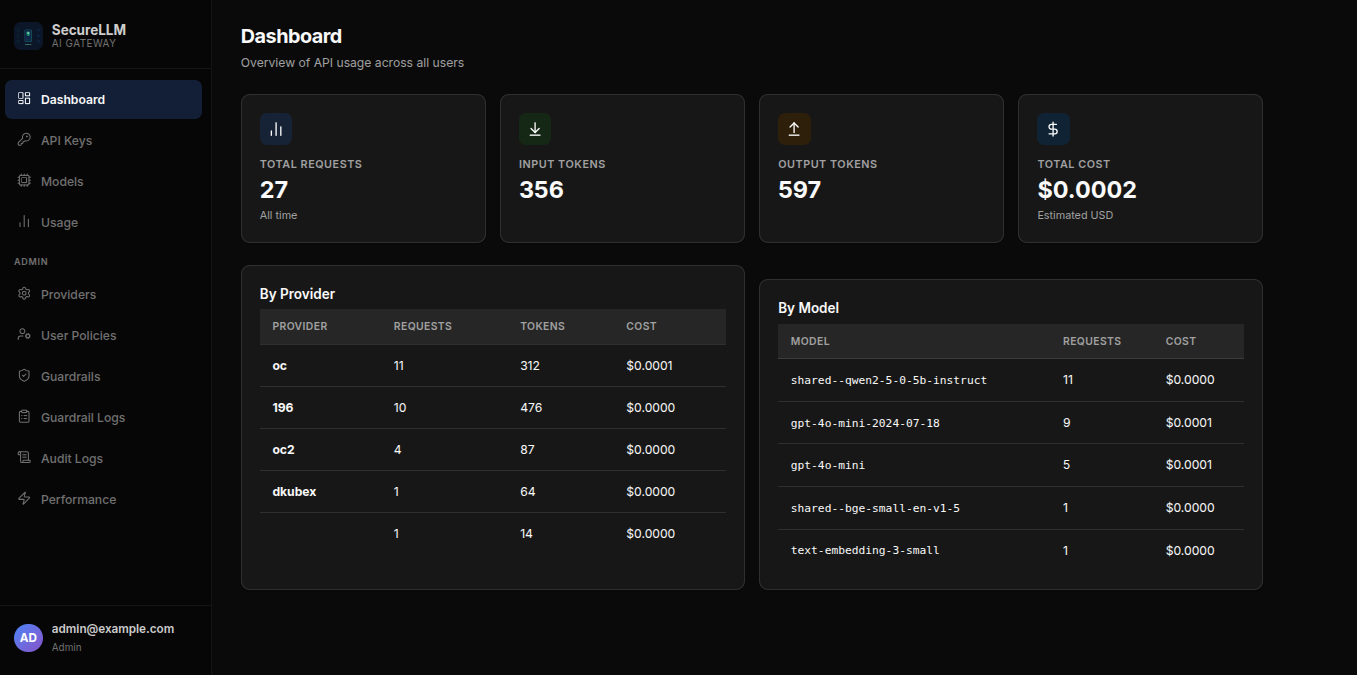
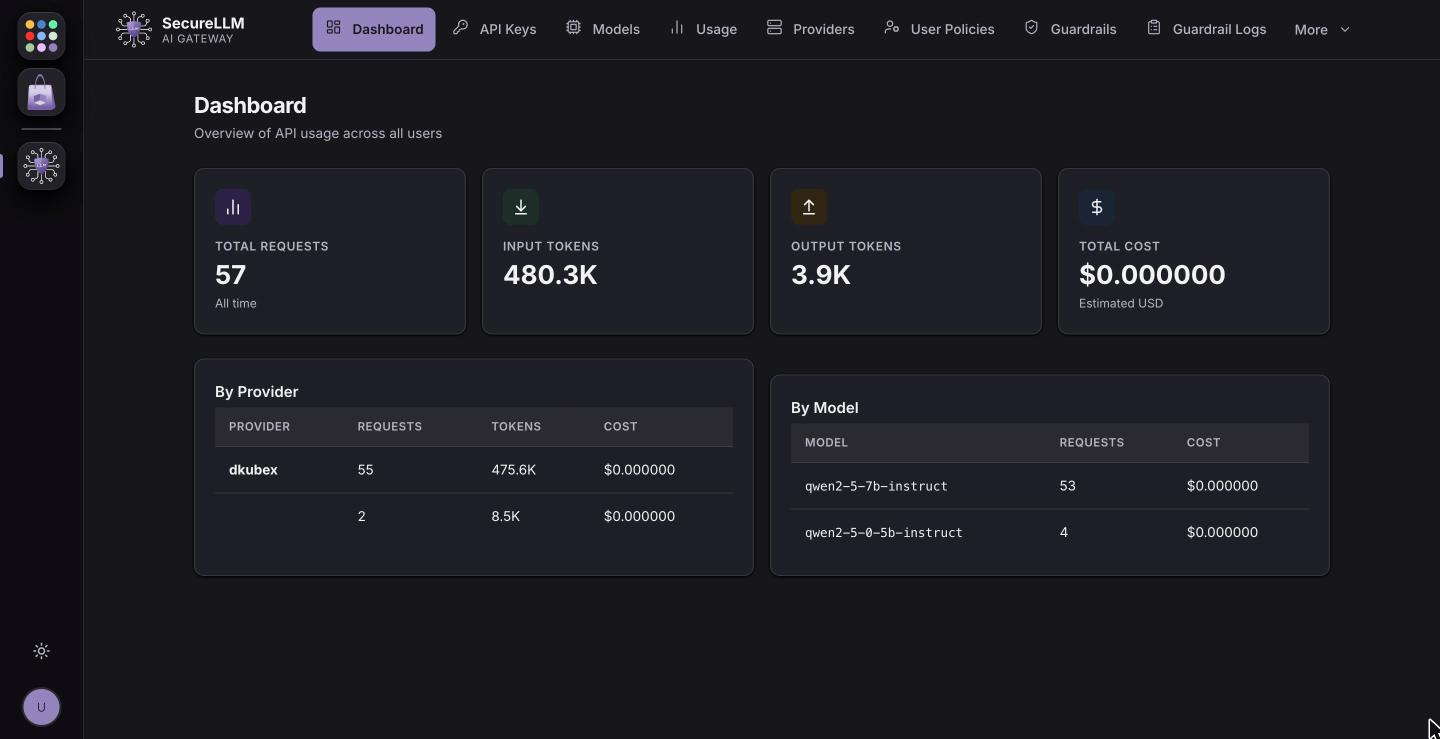
docs: update securellm docs (dkubeio/securellm@d0d359a)

diff --git a/applications/securellm/admin-features.md b/applications/securellm/admin-features.md
@@ -4,19 +4,35 @@
 Admin pages are only visible if your account has been granted admin access. Contact your SecureLLM administrator if you believe you should have admin rights.
 :::
 
-Admins see all four user pages (with organization-wide data) plus six additional pages: **Providers**, **Users**, **Guardrails**, **Guardrail Logs**, **Audit Logs**, and **Performance**.
+Admins see all four user pages (with organization-wide data) plus seven additional pages: **Providers**, **User Policies**, **Guardrails**, and **Guardrail Logs** in the top menu, and **Audit Logs**, **Performance**, and **Settings** under **More**.
 
 ## Dashboard (admin view)
 
-Identical to the user dashboard, but all numbers reflect the **entire organization** — every user's requests, tokens, and costs. Use this to monitor overall AI spend and identify which teams or models drive the most usage.
+Identical to the user dashboard, but all numbers reflect the **entire organization** — every user's requests, tokens, and costs ("Overview of API usage across all users"). Use this to monitor overall AI spend and identify which teams or models drive the most usage.
+
+## API Keys (admin view)
+
+The **API Keys** page ("Manage all API keys") lists every key in the organization.
+
+- The **Create New Key** card has, besides **Key Name** and **+ Create Key**, the **Allowed Providers** and **Allowed Models** pickers.
+- The **All Keys** table shows each key's **Prefix**, **Name**, **Owner**, **Uses**, **Last Used**, **Created**, **Providers**, and **Allowed Models**, with **Edit** and **Revoke** buttons.
+
+## Usage Logs (admin view)
+
+The **Usage** menu item opens the **Usage Logs** page. For admins it shows the organization-wide request history ("Organisation-wide request history") with the number of records.
+
+- Cards at the top show **Total Requests**, **Success Rate**, **Avg Latency**, and **Guardrails Fired** (blocked · modified · flagged).
+- Filter by **Provider**, **App**, **Status**, **Guardrails**, **User**, or **Date**, or type a model, key, or user in **Search**.
 
 ## Providers
 
-Providers are the AI services SecureLLM connects to (e.g., OpenAI, Anthropic, or your organization's own AI deployment).
+Providers are the AI services SecureLLM connects to (e.g., OpenAI, Anthropic, or your organization's own AI deployment). The **Providers** page ("Configure LLM provider connections. API keys are stored securely and never exposed after saving.") lists them in the **Configured Providers** table, with each provider's **Name**, **Type**, **Base URL**, **API Key**, **Allowed Models**, **Health** (Healthy or Unhealthy), an **Enabled** toggle, and **Edit** and **Delete** actions.
+
+![SecureLLM Providers page: the Configured Providers table with Name, Type, Base URL, API Key, Allowed Models, Health, Enabled and Actions columns, and the + Add Provider button](./media/securellm-providers.png)
 
 **Adding a provider:**
 
-1. Click **Providers** → **Add Provider**.
+1. Click **Providers** → **+ Add Provider**.
 2. Select the provider type from the dropdown.
 3. Enter the provider's **API Key** and, if needed, a custom **Base URL**.
 4. Optionally list **Allowed Models** (leave blank to allow all models from this provider).
@@ -24,15 +40,15 @@ Providers are the AI services SecureLLM connects to (e.g., OpenAI, Anthropic, or
 
 **Enabling / disabling a provider:**
 
-Use the toggle switch on each provider card. Disabling pauses routing to that provider without losing its configuration — useful for maintenance or cost control. Only delete a provider when you are certain it will never be used again.
+Use the **Enabled** toggle in the provider's row. Disabling pauses routing to that provider without losing its configuration — useful for maintenance or cost control. Only delete a provider when you are certain it will never be used again.
 
-## Users
+## User Policies
 
-The Users page lets you set access policies for individual users — controlling which providers and models each person can use.
+The **User Policies** menu item opens the **User Restrictions** page ("Manage allowed providers and models per user."), where you set access policies for individual users — controlling which providers and models each person can use.
 
 **Adding a restriction:**
 
-1. Click **Users** → **Add Restriction**.
+1. Click **User Policies** → **+ Add Restriction**.
 2. Enter the user's email or username.
 3. Specify **Allowed Providers** and/or **Allowed Models** (comma-separated).
 4. Click **Save**.
@@ -45,7 +61,11 @@ To remove all restrictions and the spend limit from a user (giving them full acc
 
 ## Guardrails
 
-Guardrails are automatic safety filters that inspect AI requests and responses before they reach the AI or your users.
+Guardrails are automatic safety filters that inspect AI requests and responses before they reach the AI or your users. The **Guardrails** page ("Configure security guardrails that inspect requests and responses.") has two tabs, **Guardrails** and **Test Guardrails**, and a **+ Add New Guardrail** button.
+
+The **Guardrails** tab lists each guardrail's **ID**, **Name**, **Provider** (the guardrail type), **Mode** (`pre_call` checks the request, `post_call` the response), **Default On**, an **Enabled** toggle, **Updated**, and **Edit** and **Delete** actions. Three guardrails are listed out of the box: `prompt-injection` (Prompt Injection, `pre_call`), `content-filter` (Content Filter, `pre_call`), and `output-content-filter` (Content Filter, `post_call`).
+
+![SecureLLM Guardrails page: the Guardrails tab listing the prompt-injection, content-filter and output-content-filter guardrails with their Mode, Default On and Enabled columns](./media/securellm-guardrails.png)
 
 **Three guardrail types:**
 
@@ -55,7 +75,7 @@ Guardrails are automatic safety filters that inspect AI requests and responses b
 | **Prompt Injection** | Detects attempts to manipulate the AI into ignoring its instructions (jailbreak attempts) |
 | **Custom** | Advanced: accepts a raw JSON configuration for organization-specific rules |
 
-**Enabling or disabling a guardrail:** Use the toggle switch on each guardrail card. Changes take effect immediately for all new requests.
+**Enabling or disabling a guardrail:** Use the **Enabled** toggle in the guardrail's row. Changes take effect immediately for all new requests.
 
 **Testing a guardrail:**
 
@@ -67,9 +87,9 @@ Guardrails are automatic safety filters that inspect AI requests and responses b
 
 ## Guardrail Logs
 
-Every time a guardrail evaluates a request, it writes a log entry here.
+Every time a guardrail evaluates a request, it writes a log entry here ("Real-time log of every guardrail execution across all API requests."). Until a guardrail runs, the page shows "No guardrail events".
 
-- Filter by **guardrail name** or **trigger status** (triggered / not triggered).
+- Filter by **Guardrail Name** or **Triggered** status (triggered / not triggered), or use **Search**. **Clear** resets the filters.
 - The summary bar shows total events, how many triggered, and the overall pass rate.
 - Click any row to see the exact text that was flagged and the action taken.
 
@@ -77,14 +97,14 @@ Use this page to verify that your guardrails are catching what they should — a
 
 ## Audit Logs
 
-Audit Logs record every administrative action taken in SecureLLM: who created or revoked a key, who changed a provider, who updated a user policy — with timestamps and IP addresses.
+Audit Logs (under **More**) record every administrative action taken in SecureLLM: who created or revoked a key, who changed a provider, who updated a user policy — with timestamps and IP addresses.
 
 - Filter by **actor** (admin's email) or **action type** (e.g., `create_key`, `revoke_key`, `update_provider`).
 - Use this page for compliance reviews or to investigate unexpected changes.
 
 ## Performance
 
-The Performance page shows how the gateway itself is behaving.
+The Performance page (under **More**) shows how the gateway itself is behaving.
 
 - **Uptime** — how long SecureLLM has been running since last restart
 - **Total Requests / 5xx Errors** — overall traffic and error counts
@@ -93,3 +113,18 @@ The Performance page shows how the gateway itself is behaving.
 :::{tip}
 P95 latency is the response time that 95% of requests fall under. A spike here usually means a specific provider is slow, not that SecureLLM itself is the bottleneck.
 :::
+
+## Settings
+
+The **Settings** page (under **More**) sets the "Retention for usage-log payloads and records."
+
+**Log payload storage:** "The full request and response of every call is stored as JSON files on the log volume. When the volume fills past the threshold, the oldest files are deleted until the cleanup amount has been freed. The table rows remain, showing their preview only."
+
+- The page shows the volume's **Used** space, **Capacity**, number of **Files**, **Last cleanup**, and **Location**.
+- **Cleanup threshold (% of capacity)** — how full the volume can get before the oldest files are deleted.
+- **Space to free (% of capacity)** — how much space each cleanup frees.
+
+**Database retention:** "Only the newest usage records are kept. Older records are deleted together with their payload files."
+
+- The page shows the number of **Records** and the **Last prune**.
+- **Maximum records to keep** — the number of newest usage records kept.

diff --git a/applications/securellm/tutorials.md b/applications/securellm/tutorials.md
@@ -6,25 +6,25 @@ These walkthroughs chain together the individual tasks described in [Core featur
 
 *For administrators.*
 
-1. Go to **Providers** → **Add Provider**. Select the provider type, enter its **API Key** and (if needed) a custom **Base URL**, and optionally list **Allowed Models**. Click **Save**.
-2. Make sure the provider is enabled using the toggle switch on its card.
+1. Go to **Providers** → **+ Add Provider**. Select the provider type, enter its **API Key** and (if needed) a custom **Base URL**, and optionally list **Allowed Models**. Click **Save**.
+2. Make sure the provider is enabled using the **Enabled** toggle in its row of the **Configured Providers** table.
 3. Open the **Models** page and search for a model from that provider. Use the **Provider** filter to confirm the model now appears in the list.
-4. As requests start coming in, use the **Dashboard** (the **By Provider** table) and the **Usage** page to confirm activity is routing through the new provider.
+4. As requests start coming in, use the **Dashboard** (the **By Provider** table) and the **Usage Logs** page (the **Usage** menu item) to confirm activity is routing through the new provider.
 
 ## Onboard a user with limited access
 
 *For administrators, then the user.*
 
-1. **(Admin)** Go to **Users** → **Add Restriction**. Enter the user's email or username, specify the **Allowed Providers** and/or **Allowed Models** they should have, and click **Save**.
-2. **(User)** Log in, go to **API Keys** → **Create Key**, give it a descriptive name, and copy the key immediately — it is only shown once.
+1. **(Admin)** Go to **User Policies** → **+ Add Restriction**. Enter the user's email or username, specify the **Allowed Providers** and/or **Allowed Models** they should have, and click **Save**.
+2. **(User)** Log in, go to **API Keys**, enter a descriptive name in **Key Name** on the **Create New Key** card, click **+ Create Key**, and copy the key immediately — it is only shown once.
 3. **(User)** Open the **Models** page. Only the models and providers made available to you appear here. Click the copy icon next to a model to copy its identifier, and paste the key and identifier into your script, tool, or IDE plugin.
-4. **(User or admin)** Confirm the requests are flowing on the **Usage** page — the user sees their own history, and an admin sees all users' history from the admin Usage view.
+4. **(User or admin)** Confirm the requests are flowing on the **Usage Logs** page (the **Usage** menu item) — the user sees their own history, and an admin sees all users' history from the admin Usage Logs view.
 
 ## Turn on and verify a guardrail
 
 *For administrators.*
 
-1. Go to **Guardrails** and enable the guardrail you want (**Content Filter**, **Prompt Injection**, or **Custom**) using its toggle. Changes take effect immediately for all new requests.
+1. Go to **Guardrails** and enable the guardrail you want (**Content Filter**, **Prompt Injection**, or **Custom**) using the **Enabled** toggle in its row. Changes take effect immediately for all new requests.
 2. Open the **Test Guardrails** tab, select the guardrail(s), paste sample text, and click **Run Test** to see whether it triggers and what action it takes (block / mask / warn).
 3. Review **Guardrail Logs** to confirm the guardrail is catching what it should — filter by guardrail name or trigger status, and check the pass rate to make sure it is not over-blocking legitimate requests.
-4. For any individual request, open its **Request Detail** panel from the **Usage** page to see the guardrail events that request triggered.
+4. For any individual request, open its **Request Detail** panel from the **Usage Logs** page to see the guardrail events that request triggered.

diff --git a/applications/securellm/user-features.md b/applications/securellm/user-features.md
@@ -1,12 +1,12 @@
 # Core Features
 
-Once you log in, the sidebar shows four pages available to every user: **Dashboard**, **API Keys**, **Models**, and **Usage**.
+Once you log in, the top menu shows four pages available to every user: **Dashboard**, **API Keys**, **Models**, and **Usage**.
 
 ## Dashboard
 
 The Dashboard gives you a snapshot of your AI usage at a glance.
 
-![Admin Dashboard view](./media/screenshot-1.png)
+![SecureLLM Dashboard in the admin view: Total Requests, Input Tokens, Output Tokens and Total Cost cards above the By Provider and By Model tables](./media/screenshot-1.png)
 
 - **Total Requests** — how many AI calls you have made
 - **Input / Output Tokens** — a measure of how much text was sent and received (tokens ≈ words)
@@ -23,10 +23,10 @@ An API key is like a password that lets an application (a script, a tool, or an 
 
 **Creating a key:**
 
-1. Click **API Keys** in the sidebar.
-2. Click **Create Key**.
-3. Enter a descriptive name (e.g., `my-vscode-plugin` or `data-pipeline`).
-4. Click **Create**.
+1. Click **API Keys** in the top menu.
+2. Find the **Create New Key** card.
+3. Enter a descriptive name in **Key Name** (e.g., `my-vscode-plugin` or `data-pipeline`).
+4. Click **+ Create Key**.
 5. **Copy the key immediately** — it is only shown once. Store it somewhere safe (a password manager or `.env` file).
 
 **Revoking a key:**
@@ -53,11 +53,11 @@ If an admin has restricted your access, you will only see the models and provide
 
 ## Usage (my requests)
 
-The Usage page shows your request history — everything you or your keys have sent to SecureLLM.
+The **Usage** menu item opens the **Usage Logs** page, which shows your request history — everything you or your keys have sent to SecureLLM.
 
 ![Request Detail modal](./media/screenshot-2.png)
 
-- Use the **filters** at the top to narrow by provider, model, status, or API key name.
+- Use the **filters** at the top to narrow by provider, status, date and more, or type a model or API key name in **Search**.
 - Click any row to open the **Request Detail** panel, which shows:
   - The exact messages sent and the AI's response
   - Request status, cost, token counts, and latency

diff --git a/applications/securellm/index.md b/applications/securellm/index.md
@@ -10,13 +10,13 @@ SecureLLM is your organization's secure gateway to AI. Instead of everyone conne
 - **Model browser** — Search and filter every model available to you, and copy its identifier for use in your code.
 - **Usage tracking** — Review your request history with token counts, cost, latency, and any guardrail events.
 - **Guardrails** — Automatic safety filters for sensitive content, PII, and prompt-injection attempts (configured by admins).
-- **Administrator controls** — Manage providers, per-user access policies, guardrails, audit logs, and gateway performance.
+- **Administrator controls** — Manage providers, per-user access policies, guardrails, audit logs, gateway performance, and usage-log retention.
 
 ## Guides
 
 - [Getting started](./getting-started.md) — Log in and create your first API key.
 - [Core features](./user-features.md) — Dashboard, API Keys, Models, and Usage for everyday users.
-- [Administrator features](./admin-features.md) — Providers, Users, Guardrails, logs, and Performance.
+- [Administrator features](./admin-features.md) — Providers, User Policies, Guardrails, logs, Performance, and Settings.
 - [Workflows](./tutorials.md) — End-to-end walkthroughs for common setup tasks.
 
 ## At a glance
@@ -28,11 +28,12 @@ SecureLLM is your organization's secure gateway to AI. Instead of everyone conne
 | Models | Browse available models | Browse + manually refresh list |
 | Usage | Own request history | All users' request history |
 | Providers | — | Add / edit / enable / disable |
-| Users | — | Set per-user access policies |
+| User Policies | — | Set per-user access policies |
 | Guardrails | — | Configure, toggle, and test |
 | Guardrail Logs | — | View and filter |
 | Audit Logs | — | View and filter |
 | Performance | — | View gateway metrics |
+| Settings | — | Set usage-log retention |
 
 ```{toctree}
 :hidden:

diff --git a/applications/securellm/getting-started.md b/applications/securellm/getting-started.md
@@ -6,16 +6,16 @@ SecureLLM is your organization's secure gateway to AI — one central hub that a
 
 SecureLLM uses your company's single sign-on (SSO). Navigate to the app URL and you are logged in automatically using your existing credentials — no separate account or password needed.
 
-Once logged in, you will see a sidebar with four pages: **Dashboard**, **API Keys**, **Models**, and **Usage**. Administrators see additional pages — see [Administrator features](./admin-features.md).
+Once logged in, you will see a menu across the top of the page with four pages: **Dashboard**, **API Keys**, **Models**, and **Usage**. Administrators see additional pages, some of them under **More** — see [Administrator features](./admin-features.md).
 
 ## Creating your first API key
 
 An API key is like a password that lets an application (a script, a tool, or an IDE plugin) talk to SecureLLM on your behalf. You create keys here and paste them into whichever tool needs them.
 
-1. Click **API Keys** in the sidebar.
-2. Click **Create Key**.
-3. Enter a descriptive name (e.g., `my-vscode-plugin` or `data-pipeline`).
-4. Click **Create**.
+1. Click **API Keys** in the top menu.
+2. Find the **Create New Key** card.
+3. Enter a descriptive name in **Key Name** (e.g., `my-vscode-plugin` or `data-pipeline`).
+4. Click **+ Create Key**.
 5. **Copy the key immediately** — it is only shown once. Store it somewhere safe (a password manager or `.env` file).
 
 :::{tip}
